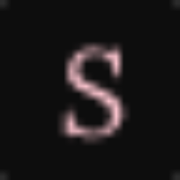
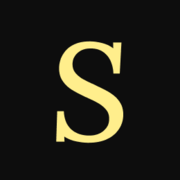
Changes on 28/10
- Meta Data
- Favicon
- Mobile alignment, images
- Glassmorphism landing

diff --git a/src/components/LandingSection.js b/src/components/LandingSection.js
@@ -1,9 +1,14 @@
-import React, { useState } from "react";
-import HeroImage from "../assets/landingpage/sam.png";
+import React, { useEffect, useState } from "react";
+import HeroImage from "../assets/landingpage/sam.jpg";
 import IndiaFlag from "../assets/landingpage/🇮🇳.png";
+import overlay from "../assets/landingpage/landingOverlay.svg";
 
 const LandingSection = ({ imageEnter, largeEnter }) => {
   const [hovered, setHovered] = useState(false);
+
+  useEffect(() => {
+    console.log(hovered);
+  }, [hovered]);
 
   const handleMouseEnter = () => {
     setHovered(true);
@@ -23,7 +28,7 @@ const LandingSection = ({ imageEnter, largeEnter }) => {
       <div className="relative w-full h-full md:m-auto md:max-w-7xl ">
         <div class="relative flex flex-col justify-center items-center md:block h-full md:mt-0 md:py-52 w-full">
           <h1
-            class="text-3xl z-20 md:text-5xl md:ml-28 font-thin mt-60 md:mt-16 w-9/10  md:w-8/10 font-lato-light-italic landing-page-text  "
+            class="text-3xl z-20 md:text-5xl md:ml-28 font-thin mt-60 md:mt-20 w-full mx-auto md:w-max font-lato-light-italic landing-page-text  "
             onMouseEnter={largeEnter}
             onMouseLeave={imageEnter}
             style={{
@@ -44,7 +49,7 @@ const LandingSection = ({ imageEnter, largeEnter }) => {
               href="https://www.linkedin.com/in/shradha-b-k/"
               target="_blank"
               rel="noreferrer"
-              className="py-2 md:py-4 flex justify-center items-center md:ml-28 mt-2 md:mt-0 rounded-l-full rounded-r-full text-white max-w-max tracking-wider"
+              className="py-2 pt-0 md:py-4 flex justify-center items-center md:ml-28 mt-2 md:mt-0 rounded-l-full rounded-r-full text-white max-w-max tracking-wider"
             >
               <div
                 style={{
@@ -69,40 +74,27 @@ const LandingSection = ({ imageEnter, largeEnter }) => {
             borderRadius: "10px",
             position: "absolute",
             overflow: "hidden",
-            zIndex: 10, // Ensure this div is on top of the content
-            transition: "transform 0.3s ease-in-out",
+            zIndex: hovered ? 40 : 10,
+            background: `url(${HeroImage})`,
+            backgroundSize: "contain",
+            transition: "z-index 0.4s ease",
           }}
           onMouseEnter={handleMouseEnter}
           onMouseLeave={handleMouseLeave}
-          className={`hidden md:block absolute right-32 bottom-20 bg-cover bg-center bg-no-repeat hover:z-40`}
+          className={`hidden md:flex justify-start align-top absolute right-32 bottom-20 bg-cover bg-center bg-no-repeat hover:z-40 ${
+            hovered ? "hoveredLanding" : ""
+          }`}
         >
-          <img
-            src={HeroImage}
-            className="hover:z-40"
-            alt="Hero Pic"
-            style={{
-              width: "100%",
-              height: "100%",
-              objectFit: "cover",
-            }}
-          />
           {hovered && (
-            <>
-              <div
-                style={{
-                  position: "absolute",
-                  top: 0,
-                  left: 0,
-                  width: "100%",
-                  height: "100%",
-                  zIndex: 11,
-                  // border: "2px dotted #FFF",
-                  background:
-                    "lightgray 50% / cover no-repeat, linear-gradient(117deg, rgba(255, 255, 255, 0.25) 2.61%, rgba(255, 255, 255, 0.00) 87.34%)",
-                  boxShadow: "0px 4px 4px 0px rgba(0, 0, 0, 0.05)",
-                  backdropFilter: "blur(13px)",
-                }}
-              ></div>
+            <div
+              style={{
+                background: `url(${overlay})`,
+                width: "330px",
+                height: "432px",
+                marginLeft: "-3px",
+              }}
+              className=""
+            >
               <div
                 className="hover:z-40"
                 style={{
@@ -128,7 +120,7 @@ const LandingSection = ({ imageEnter, largeEnter }) => {
                   </span>
                 </p>
               </div>
-            </>
+            </div>
           )}
         </div>
       </div>

diff --git a/public/index.html b/public/index.html
@@ -24,19 +24,24 @@
     <meta name="theme-color" content="#000000" />
 
     <!-- HTML Meta Tags -->
-    <title>Shradha - Product Designer</title>
+    <title>Shradha - UX Researcher</title>
     <meta
       name="description"
-      content="A product designer who approaches problems with a purpose, elevates products through strategic design thinking by providing intuitive, usable and delightful experiences."
+      content="A UX Researcher committed about creating designs with a human touch. She specializes in understanding and analyzing user behavior and patterns, and strives for successful, people-focused designs that blend with technology."
     />
+    <meta
+      name="keywords"
+      content="UX Researcher, User Experience, User-Centric Design, Human-Centered Design, User Behavior, User Patterns, UX Design, Personas, User Interviews, User Psychology, Field Study, Usability Testing"
+    />
+    <meta name="author" content="Mahanth and Vishal" />
 
     <!-- Facebook Meta Tags -->
-    <meta property="og:url" content="https://www.shradha.design/" />
+    <meta property="og:url" content="https://www.shradha-b.com/" />
     <meta property="og:type" content="website" />
-    <meta property="og:title" content="Shradha - Product Designer" />
+    <meta property="og:title" content="Shradha - UX Researcher" />
     <meta
       property="og:description"
-      content="A product designer who approaches problems with a purpose, elevates products through strategic design thinking by providing intuitive, usable and delightful experiences."
+      content="A UX Researcher committed about creating designs with a human touch. She specializes in understanding and analyzing user behavior and patterns, and strives for successful, people-focused designs that blend with technology."
     />
     <meta
       property="og:image"
@@ -46,12 +51,12 @@
 
     <!-- Twitter Meta Tags -->
     <meta name="twitter:card" content="summary_large_image" />
-    <meta property="twitter:domain" content="shradha.design" />
-    <meta property="twitter:url" content="https://www.shradha.design/" />
-    <meta name="twitter:title" content="Shradha - Product Designer" />
+    <meta property="twitter:domain" content="shradha-b.com" />
+    <meta property="twitter:url" content="https://www.shradha-b.com/" />
+    <meta name="twitter:title" content="Shradha - UX Researcher" />
     <meta
       name="twitter:description"
-      content="A product designer who approaches problems with a purpose, elevates products through strategic design thinking by providing intuitive, usable and delightful experiences."
+      content="A UX Researcher committed about creating designs with a human touch. She specializes in understanding and analyzing user behavior and patterns, and strives for successful, people-focused designs that blend with technology."
     />
     <meta
       name="twitter:image"
@@ -65,6 +70,8 @@
     <link rel="icon" type="image/png" sizes="32x32" href="/favicon-32x32.png" />
     <link rel="icon" type="image/png" sizes="16x16" href="/favicon-16x16.png" />
     <link rel="manifest" href="/site.webmanifest" />
+    <link rel="mask-icon" href="/safari-pinned-tab.svg" color="#252325" />
+    <meta name="msapplication-TileColor" content="#252325" />
   </head>
   <body>
     <div id="root"></div>

diff --git a/src/components/NewWork.js b/src/components/NewWork.js
@@ -1,4 +1,4 @@
-import React, { useState } from "react";
+import React from "react";
 import { ParallaxHover } from "react-parallax-hover";
 
 // Work Backgrounds Desktop
@@ -90,7 +90,7 @@ const WorkItemMobile = ({ key, item }) => {
           width: "100%",
           background: `url(${item.backgroundMob})`,
           backgroundPosition: "center",
-          backgroundSize: "cover",
+          backgroundSize: "contain",
           backgroundRepeat: "no-repeat",
         }}
       >
@@ -120,13 +120,15 @@ const WorkItemMobile = ({ key, item }) => {
                 </svg>
               )}
             </p>
-            <p
-              className={`font-lora-italic text-[#fefefe] text-[22px] font-medium leading-9 tracking-[0.33px] w-[${
-                item.mobWidth ? item.mobWidth : "270"
-              }px]`}
+            <div
+              style={{ width: `${item.mobWidth ? item.mobWidth : "270"}px` }}
             >
-              {item.title}
-            </p>
+              <p
+                className={`font-lora-italic text-[#fefefe] text-[22px] font-medium leading-9 tracking-[0.33px]`}
+              >
+                {item.title}
+              </p>
+            </div>
           </div>
         </div>
       </div>
@@ -146,7 +148,7 @@ const NewWork = ({ imageEnter, largeEnter }) => {
       subTitle: "Rush By Hike, A Real Money Gaming App",
       background: HikeBG,
       backgroundMob: HikeBGmob,
-      mobWidth: 292,
+      mobWidth: 290,
       islocked: true,
       // link: "https://www.figma.com/proto/X6IFgiegAQerDSBe5RKBs3/Case-study-stack?page-id=1%3A2&type=design&node-id=1-8501&viewport=758%2C738%2C0.24&t=jbsnjihAGYGdgkII-1&scaling=contain&starting-point-node-id=1%3A8284&mode=design",
     },

diff --git a/src/pages/About.js b/src/pages/About.js
@@ -69,8 +69,8 @@ const About = () => {
         className="w-full h-auto font-lato pt-10 bg-brand-black text-[#fefefe] "
       >
         {/* landing section */}
-        <div class="h-screen relative  w-full md:px-48  md:pr-0 md:pl-48 pt-10 md:py-20 flex flex-col md:flex-row md:items-center md:justify-start">
-          <div class="w-full md:w-4/7 z-20 pt-10 md:pt-0 px-7 flex flex-col justify-center items-start tracking-wide ">
+        <div class="h-screen relative  w-full md:px-48  md:pr-0 md:pl-48 pt-10 md:py-20 md:pt-0 flex flex-col md:flex-row md:items-center md:justify-start">
+          <div class="w-full md:w-4/7 z-20 pt-10 md:pt-[0] px-7 flex flex-col justify-center items-start tracking-wide ">
             <div class="text-brand-white relative text-[26px] md:text-4xl  w-full ">
               <div onMouseEnter={largeEnter} onMouseLeave={imageEnter}>
                 Hey there!

diff --git a/src/components/SocialProof.js b/src/components/SocialProof.js
@@ -187,11 +187,9 @@ const SocialProof = ({ imageEnter, largeEnter }) => {
                       backgroundImage: `url(${feedback.image})`,
                     }}
                   />
-                  <div class=" tracking-1 md:tracking-3 ">
-                    <div className="text-xs md:text-xl">{feedback.name}, </div>
-
-                    <div className="text-xs md:text-xl ">
-                      {feedback.company}
+                  <div class=" flex tracking-1 md:tracking-3 ">
+                    <div className="text-xs font-light md:text-xl">
+                      {feedback.name}, {feedback.company}
                     </div>
                   </div>
                 </div>

diff --git a/src/App.css b/src/App.css
@@ -244,3 +244,18 @@ path:nth-child(6) {
     display: none !important;
   }
 }
+
+/* Landing page hover transition */
+
+.hoveredLanding {
+  animation: hoverAnimation 0.3s ease forwards;
+}
+
+@keyframes hoverAnimation {
+  from {
+    z-index: 10;
+  }
+  to {
+    z-index: 40;
+  }
+}
